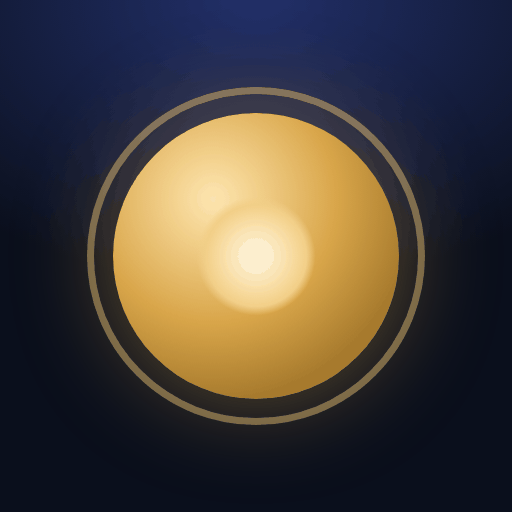
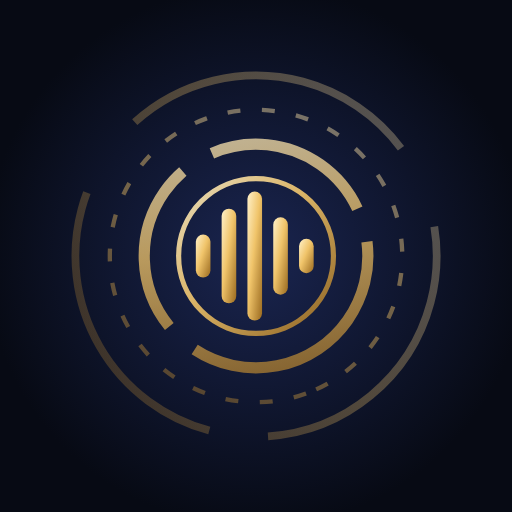
Novo ícone e tela de abertura (núcleo de IA)
Claude-Session: https://claude.ai/code/session_01Bx6zfqDxc8f8dGCXhZayXu

diff --git a/index.html b/index.html
@@ -13,21 +13,21 @@
 <meta name="apple-mobile-web-app-title" content="Jarbas">
 <meta name="format-detection" content="telephone=no">
 <link rel="manifest" href="manifest.webmanifest">
-<link rel="icon" type="image/png" sizes="192x192" href="icons/icon-192.png">
-<link rel="apple-touch-icon" href="icons/apple-touch-icon.png">
-<link rel="apple-touch-startup-image" media="(device-width: 440px) and (device-height: 956px) and (-webkit-device-pixel-ratio: 3) and (orientation: portrait)" href="splash/splash-1320x2868.png">
-<link rel="apple-touch-startup-image" media="(device-width: 430px) and (device-height: 932px) and (-webkit-device-pixel-ratio: 3) and (orientation: portrait)" href="splash/splash-1290x2796.png">
-<link rel="apple-touch-startup-image" media="(device-width: 428px) and (device-height: 926px) and (-webkit-device-pixel-ratio: 3) and (orientation: portrait)" href="splash/splash-1284x2778.png">
-<link rel="apple-touch-startup-image" media="(device-width: 414px) and (device-height: 896px) and (-webkit-device-pixel-ratio: 3) and (orientation: portrait)" href="splash/splash-1242x2688.png">
-<link rel="apple-touch-startup-image" media="(device-width: 414px) and (device-height: 896px) and (-webkit-device-pixel-ratio: 2) and (orientation: portrait)" href="splash/splash-828x1792.png">
-<link rel="apple-touch-startup-image" media="(device-width: 402px) and (device-height: 874px) and (-webkit-device-pixel-ratio: 3) and (orientation: portrait)" href="splash/splash-1206x2622.png">
-<link rel="apple-touch-startup-image" media="(device-width: 393px) and (device-height: 852px) and (-webkit-device-pixel-ratio: 3) and (orientation: portrait)" href="splash/splash-1179x2556.png">
-<link rel="apple-touch-startup-image" media="(device-width: 390px) and (device-height: 844px) and (-webkit-device-pixel-ratio: 3) and (orientation: portrait)" href="splash/splash-1170x2532.png">
-<link rel="apple-touch-startup-image" media="(device-width: 375px) and (device-height: 812px) and (-webkit-device-pixel-ratio: 3) and (orientation: portrait)" href="splash/splash-1125x2436.png">
-<link rel="apple-touch-startup-image" media="(device-width: 414px) and (device-height: 736px) and (-webkit-device-pixel-ratio: 3) and (orientation: portrait)" href="splash/splash-1242x2208.png">
-<link rel="apple-touch-startup-image" media="(device-width: 375px) and (device-height: 667px) and (-webkit-device-pixel-ratio: 2) and (orientation: portrait)" href="splash/splash-750x1334.png">
-<link rel="apple-touch-startup-image" media="(device-width: 320px) and (device-height: 568px) and (-webkit-device-pixel-ratio: 2) and (orientation: portrait)" href="splash/splash-640x1136.png">
-<link rel="stylesheet" href="styles.css?v=19">
+<link rel="icon" type="image/png" sizes="192x192" href="icons/icon-192.png?v=2">
+<link rel="apple-touch-icon" href="icons/apple-touch-icon.png?v=2">
+<link rel="apple-touch-startup-image" media="(device-width: 440px) and (device-height: 956px) and (-webkit-device-pixel-ratio: 3) and (orientation: portrait)" href="splash/splash-1320x2868.png?v=2">
+<link rel="apple-touch-startup-image" media="(device-width: 430px) and (device-height: 932px) and (-webkit-device-pixel-ratio: 3) and (orientation: portrait)" href="splash/splash-1290x2796.png?v=2">
+<link rel="apple-touch-startup-image" media="(device-width: 428px) and (device-height: 926px) and (-webkit-device-pixel-ratio: 3) and (orientation: portrait)" href="splash/splash-1284x2778.png?v=2">
+<link rel="apple-touch-startup-image" media="(device-width: 414px) and (device-height: 896px) and (-webkit-device-pixel-ratio: 3) and (orientation: portrait)" href="splash/splash-1242x2688.png?v=2">
+<link rel="apple-touch-startup-image" media="(device-width: 414px) and (device-height: 896px) and (-webkit-device-pixel-ratio: 2) and (orientation: portrait)" href="splash/splash-828x1792.png?v=2">
+<link rel="apple-touch-startup-image" media="(device-width: 402px) and (device-height: 874px) and (-webkit-device-pixel-ratio: 3) and (orientation: portrait)" href="splash/splash-1206x2622.png?v=2">
+<link rel="apple-touch-startup-image" media="(device-width: 393px) and (device-height: 852px) and (-webkit-device-pixel-ratio: 3) and (orientation: portrait)" href="splash/splash-1179x2556.png?v=2">
+<link rel="apple-touch-startup-image" media="(device-width: 390px) and (device-height: 844px) and (-webkit-device-pixel-ratio: 3) and (orientation: portrait)" href="splash/splash-1170x2532.png?v=2">
+<link rel="apple-touch-startup-image" media="(device-width: 375px) and (device-height: 812px) and (-webkit-device-pixel-ratio: 3) and (orientation: portrait)" href="splash/splash-1125x2436.png?v=2">
+<link rel="apple-touch-startup-image" media="(device-width: 414px) and (device-height: 736px) and (-webkit-device-pixel-ratio: 3) and (orientation: portrait)" href="splash/splash-1242x2208.png?v=2">
+<link rel="apple-touch-startup-image" media="(device-width: 375px) and (device-height: 667px) and (-webkit-device-pixel-ratio: 2) and (orientation: portrait)" href="splash/splash-750x1334.png?v=2">
+<link rel="apple-touch-startup-image" media="(device-width: 320px) and (device-height: 568px) and (-webkit-device-pixel-ratio: 2) and (orientation: portrait)" href="splash/splash-640x1136.png?v=2">
+<link rel="stylesheet" href="styles.css?v=20">
 </head>
 <body>
 <div id="app">
@@ -100,13 +100,13 @@
 <div id="inicio" class="inicio" hidden></div>
 <div id="toast" class="toast" role="status" hidden></div>
 
-<script src="js/util.js?v=19"></script>
-<script src="js/gemini.js?v=19"></script>
-<script src="js/voz.js?v=19"></script>
-<script src="js/agenda.js?v=19"></script>
-<script src="js/avisos.js?v=19"></script>
-<script src="js/financas.js?v=19"></script>
-<script src="js/cerebro.js?v=19"></script>
-<script src="js/app.js?v=19"></script>
+<script src="js/util.js?v=20"></script>
+<script src="js/gemini.js?v=20"></script>
+<script src="js/voz.js?v=20"></script>
+<script src="js/agenda.js?v=20"></script>
+<script src="js/avisos.js?v=20"></script>
+<script src="js/financas.js?v=20"></script>
+<script src="js/cerebro.js?v=20"></script>
+<script src="js/app.js?v=20"></script>
 </body>
 </html>

diff --git a/sw.js b/sw.js
@@ -1,7 +1,7 @@
 /* Jarbas · service worker: abre o app mesmo sem internet e atualiza sozinho */
-const VERSAO = "jarbas-v19";
-const ARQUIVOS = ["./", "index.html", "styles.css?v=19", "manifest.webmanifest",
-  "js/util.js?v=19", "js/gemini.js?v=19", "js/voz.js?v=19", "js/agenda.js?v=19", "js/avisos.js?v=19", "js/financas.js?v=19", "js/cerebro.js?v=19", "js/app.js?v=19",
+const VERSAO = "jarbas-v20";
+const ARQUIVOS = ["./", "index.html", "styles.css?v=20", "manifest.webmanifest",
+  "js/util.js?v=20", "js/gemini.js?v=20", "js/voz.js?v=20", "js/agenda.js?v=20", "js/avisos.js?v=20", "js/financas.js?v=20", "js/cerebro.js?v=20", "js/app.js?v=20",
   "icons/icon-192.png", "icons/apple-touch-icon.png"];
 self.addEventListener("install", (e) => { e.waitUntil(caches.open(VERSAO).then((c) => c.addAll(ARQUIVOS)).then(() => self.skipWaiting())); });
 self.addEventListener("activate", (e) => { e.waitUntil(caches.keys().then((ks) => Promise.all(ks.filter((k) => k !== VERSAO).map((k) => caches.delete(k)))).then(() => self.clients.claim())); });

diff --git a/js/app.js b/js/app.js
@@ -2,7 +2,7 @@
 "use strict";
 (function (J) {
   const $ = J.$, el = J.el, V = J.voz, G = J.gemini, A = J.agenda;
-  const VERSAO = "1.1.5";
+  const VERSAO = "1.1.6";
   const chat = $("chat"), entrada = $("entrada"), btnAcao = $("btn-acao");
   const ehIOS = /iP(hone|ad|od)/.test(navigator.userAgent) || (navigator.platform === "MacIntel" && navigator.maxTouchPoints > 1);
   const instalado = () => window.navigator.standalone === true || matchMedia("(display-mode: standalone)").matches;
